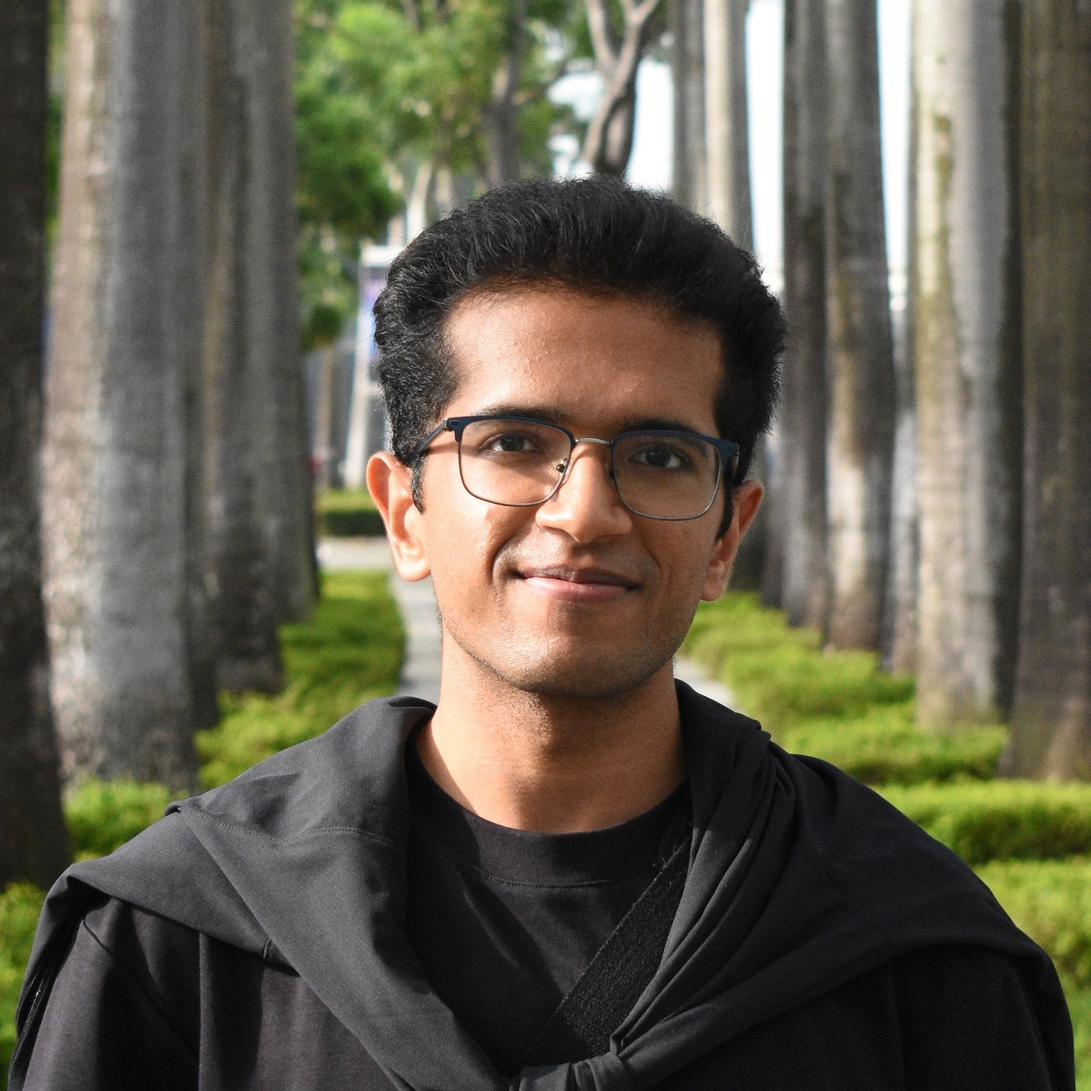
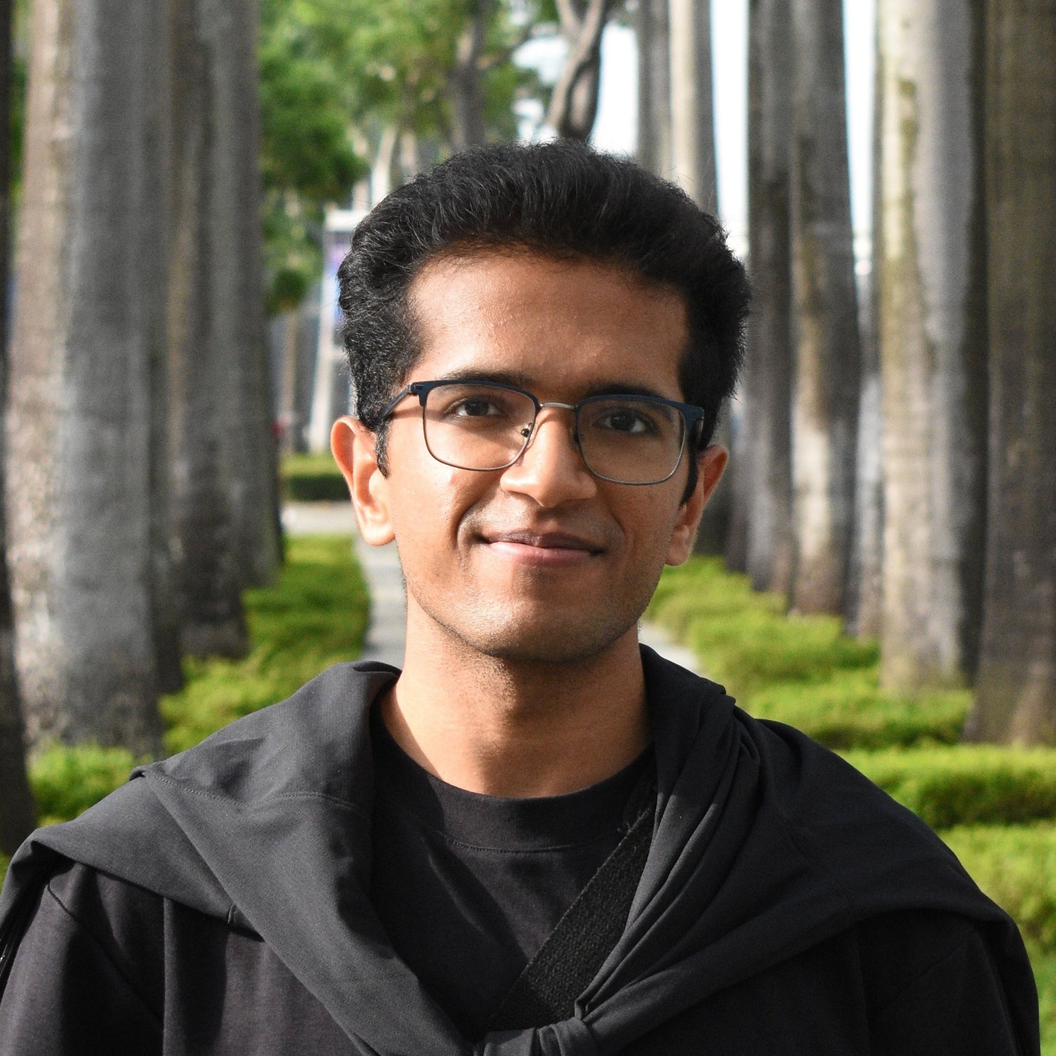
added bgs to pages, updated picture

diff --git a/_pages/cv.md b/_pages/cv.md
@@ -2,9 +2,11 @@
 layout: cv
 permalink: /CV/
 title: CV
-nav: false
-nav_order: 3
+nav: true
+nav_order: 2
 cv_name: Curriculum Vitae
 cv_pdf: cv.pdf 
-description: Click on the PDF icon to download my CV.
+description: Click on the PDF icon to view my CV.
+molecular_graphs: true
+molecular_graphs_opacity: 0.8
 ---

diff --git a/_pages/graphs.md b/_pages/graphs.md
@@ -3,7 +3,7 @@ layout: page
 permalink: /playground/graphs/
 title: Graphs
 nav: false
-nav_order: 3
+nav_order: 4
 molecular_graphs: true
 molecular_graphs_opacity: 0.9
 ---

diff --git a/_pages/dotmatrix.md b/_pages/dotmatrix.md
@@ -3,7 +3,7 @@ layout: page
 permalink: /playground/dotmatrix/
 title: Playground
 nav: false
-nav_order: 2
+nav_order: 4
 dotmatrix: true
 dotmatrix_opacity: 0.9
 ---

diff --git a/_pages/playground.md b/_pages/playground.md
@@ -3,7 +3,7 @@ layout: page
 permalink: /playground/
 title: Playground
 nav: true
-nav_order: 2
+nav_order: 3
 dropdown: true
 children:
   - title: Graphs
